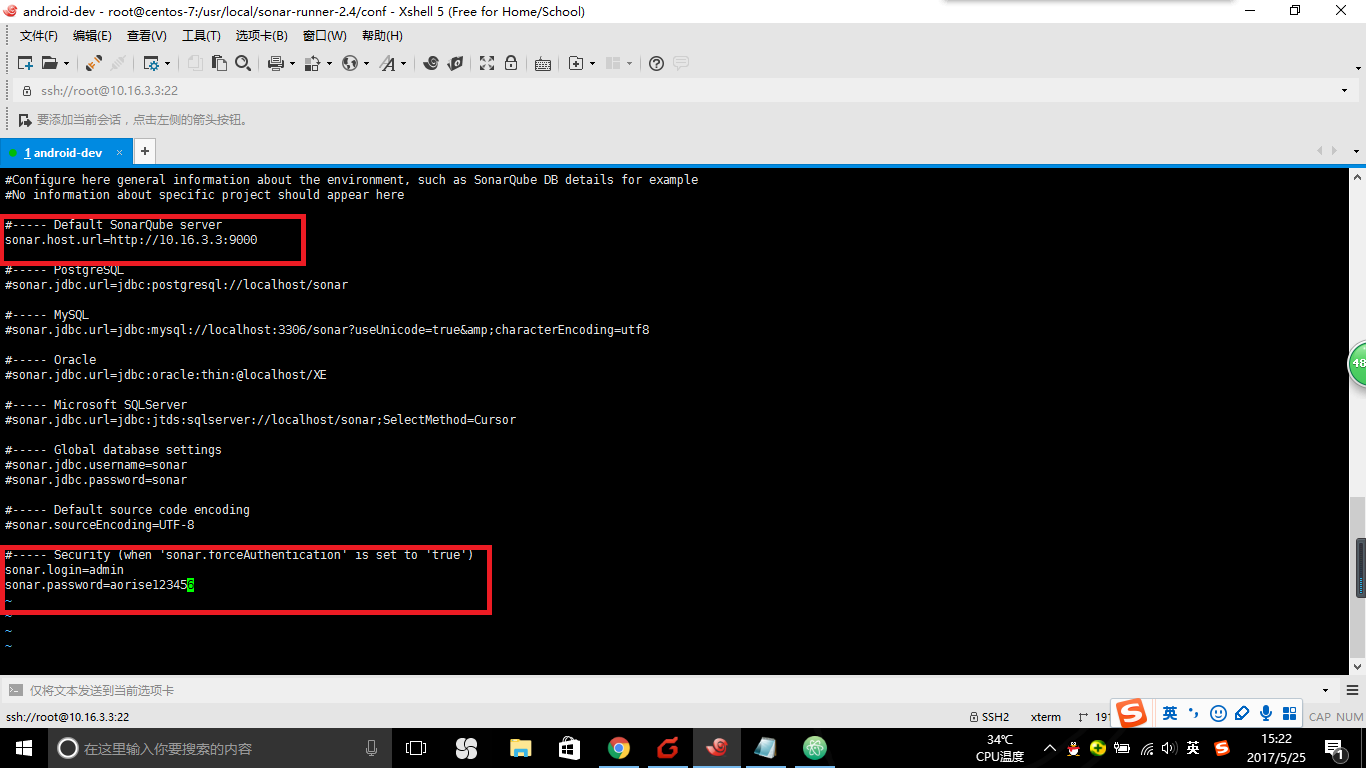
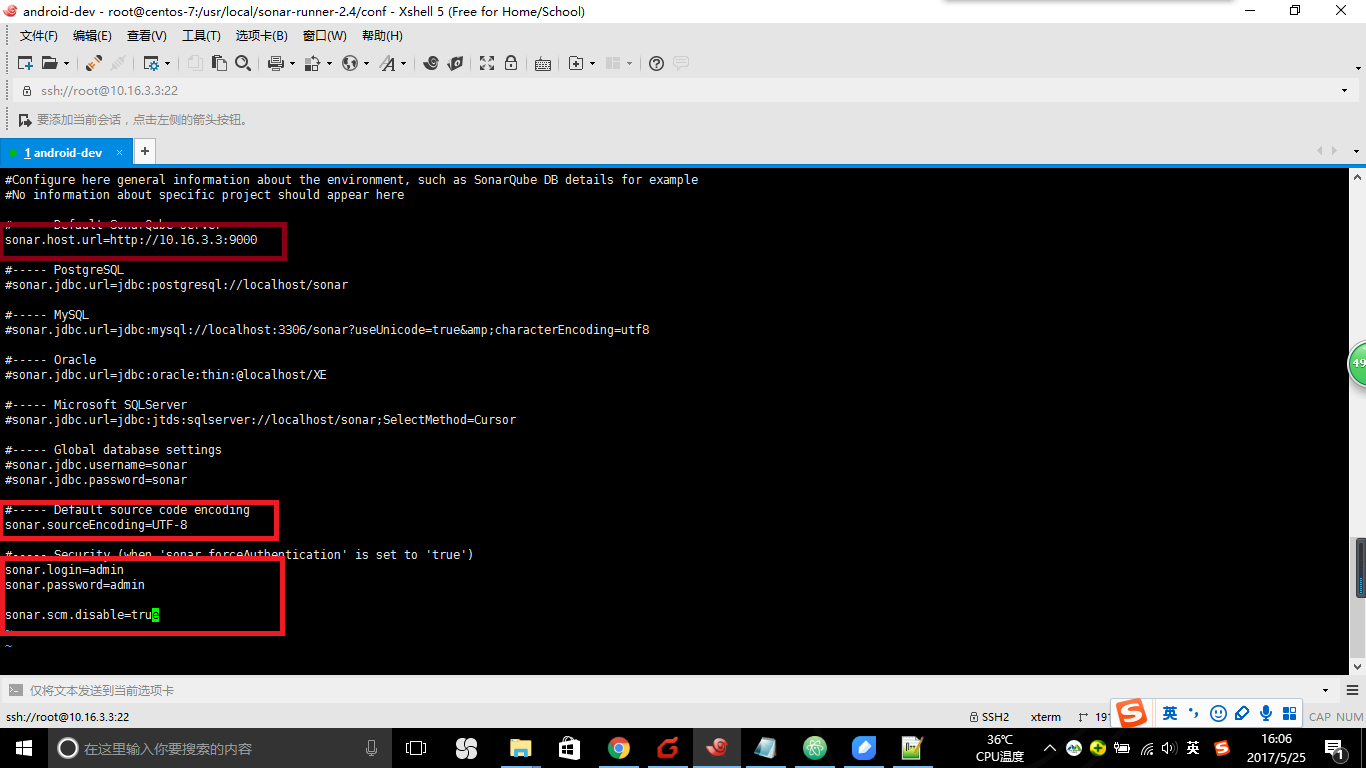
modify

diff --git a/_posts/2017-05-09-tools-sonar.md b/_posts/2017-05-09-tools-sonar.md
@@ -42,11 +42,11 @@ Sonar 是一个用于代码质量管理的开放平台。通过插件机制，So
   > [root@centos-7 local]# unzip sonarqube-5.6.6.zip    
   > [root@centos-7 local]# vi /usr/local/sonarqube-5.6.6/conf/sonar.properties   
 
-  ~~增加字段（不太确定是否需要增加因为和SonarRunner里面的配置重复了）：~~     
+  ~~增加字段（不太确定是否需要增加因为和SonarRunner里面的配置重复了，我没有配置）：~~     
   ```
   sonar.sorceEncoding=UTF-8
   sonar.login=admin
-  sonar.password=aorise123456
+  sonar.password=admin
   sonar.scm.disable=true
   ```
   
@@ -55,7 +55,7 @@ Sonar 是一个用于代码质量管理的开放平台。通过插件机制，So
   > [root@centos-7 local]# unzip sonar-runner-dist-2.4.zip
   > [root@centos-7 local]# vi /usr/local/sonar-runner-2.4/conf/sonar-runner.properties   
 
-  修改注释的字段     
+  修改注释的字段(**密码的修改没用，账号密码都是admin才可以登录**)     
   ![SonarQube](/assets/img/tools-sanor/04.png)
   
 - 设置环境变量    
@@ -75,7 +75,8 @@ Sonar 是一个用于代码质量管理的开放平台。通过插件机制，So
 - 启动SonarQube  
   > [root@centos-7 local]# ./sonar.sh start   启动服务      
   > [root@centos-7 local]# ./sonar.sh stop    停止服务         
-  > [root@centos-7 local]# ./sonar.sh restart 重启服务     
+  > [root@centos-7 local]# ./sonar.sh restart 重启服务  
+  > [root@centos-7 local]# ./sonar.sh { console | start | stop | restart | status | dump }   
 
 
 - 防火墙开放9000端口  
@@ -86,9 +87,12 @@ Sonar 是一个用于代码质量管理的开放平台。通过插件机制，So
 
 下载[汉化包](http://repo1.maven.org/maven2/org/codehaus/sonar-plugins/l10n/sonar-l10n-zh-plugin/1.8/sonar-l10n-zh-plugin-1.8.jar)到/{SONAR_HOME}/extensions/plugins/文件夹，重启SonarQube即可。  
 
-- Windows: NA(没有试过，不行重启电脑，再次启动SonarQube)   
+- Windows: 把StartSonar.bat关掉再打开即可重启sonar服务   
 - Centos: 进入/{SONAR_HOME}/bin/{系统类型目录}，再执行 `./sonar.sh restart`
 
+当然汉化包也可以进入SonarQube页面的软件中心下载配置。
+
+### 配置  
 
 然后在浏览器中访问: http://localhost:9000/ 即可显示SonarQube页面  
 ![SonarQube](/assets/img/tools-sanor/02.png)
@@ -115,4 +119,4 @@ sonar.profile=Android Lint
 ![sonar-runner成功](/assets/img/tools-sanor/03.png)  
 3. 浏览器访问: http://localhost:9000 点击项目，就可以查看具体问题了。  
 
-本篇文章简单介绍了自己在本机搭建SonarQube环境时的步骤，不是完整的安装文档。搭建SonarQube环境时主要参考了两篇文章[《SonarQube的Android环境配置》](http://www.jianshu.com/p/826c80805bb2?nomobile=yes)和[《Android 代码检查工具SonarQube》](http://blog.csdn.net/z69183787/article/details/51502870)，不过遗憾的是如果只是按照两篇文章单独介绍的部分搭建环境都有问题，只有把两个文章里面介绍的内容进行整合才成功。
+本篇文章简单介绍了自己在本机搭建SonarQube环境时的步骤，关于配置方面的描述并不完整。
